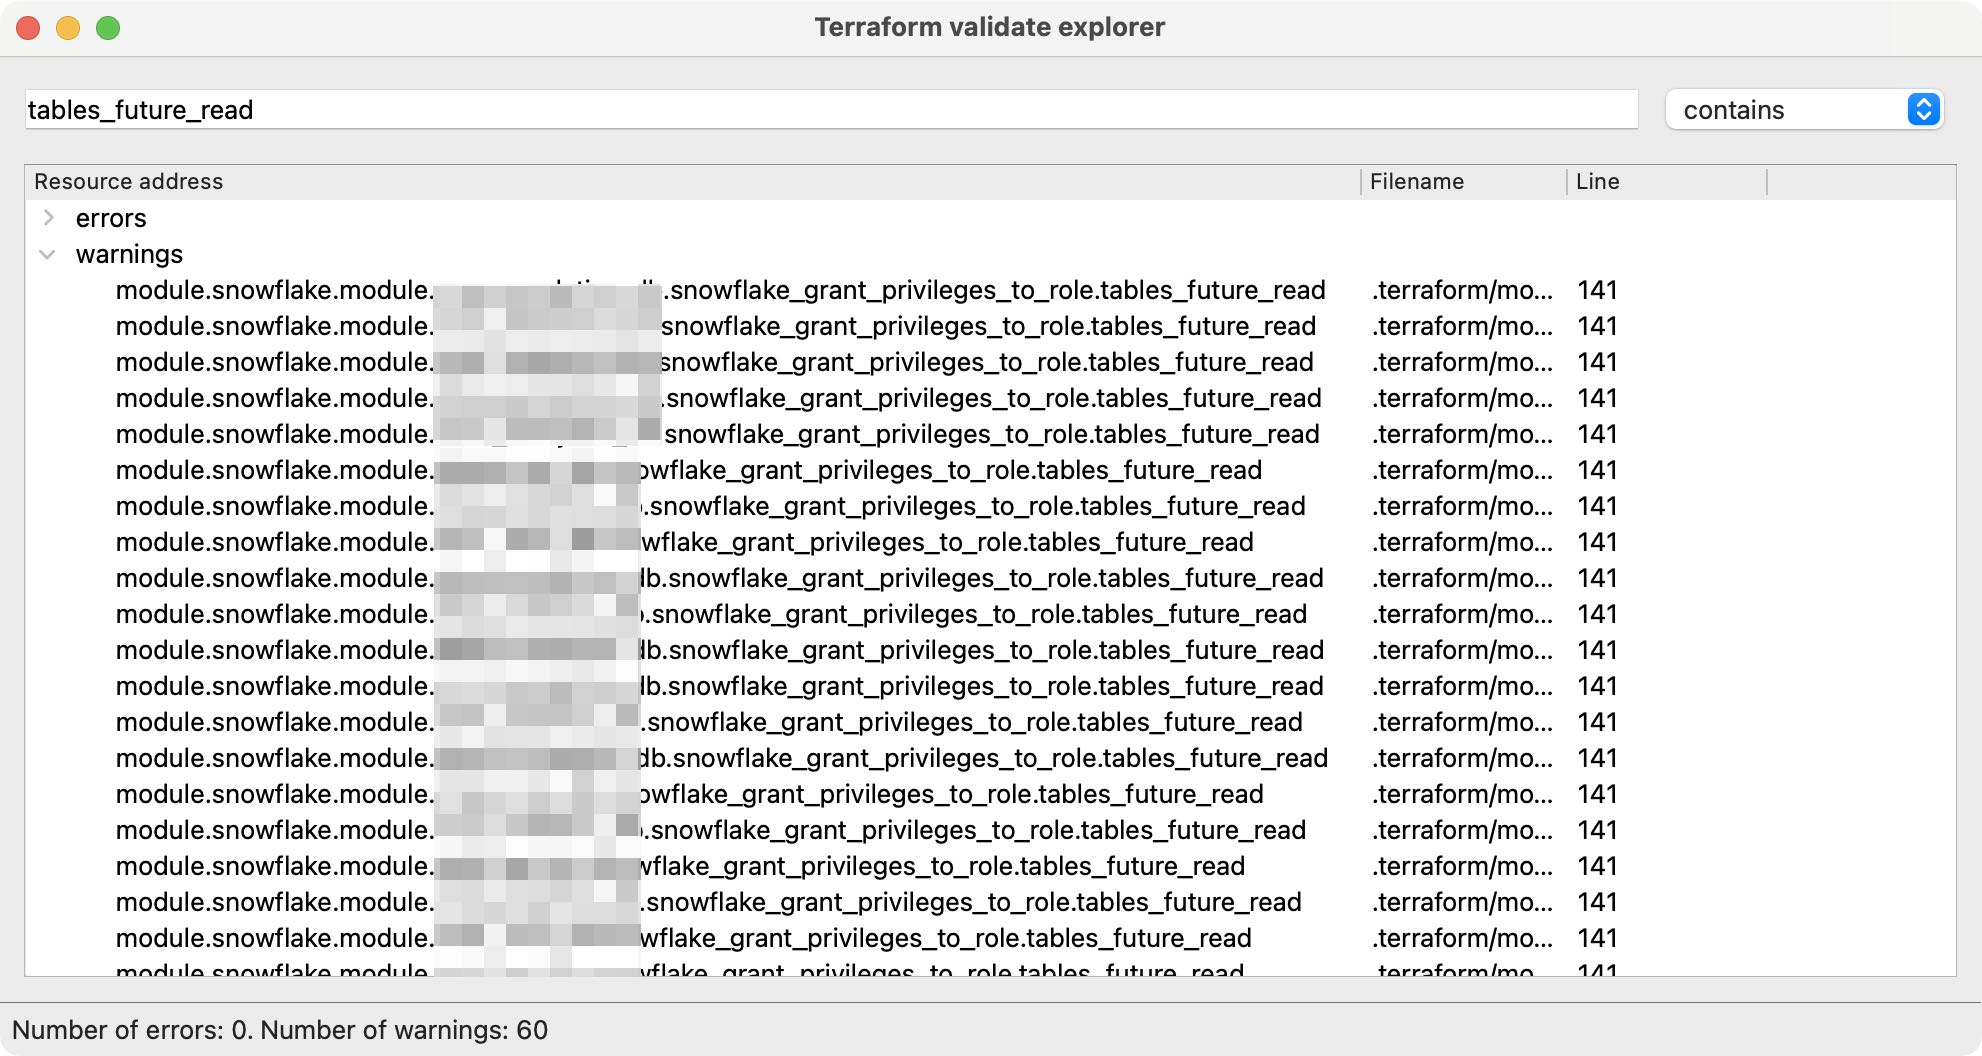
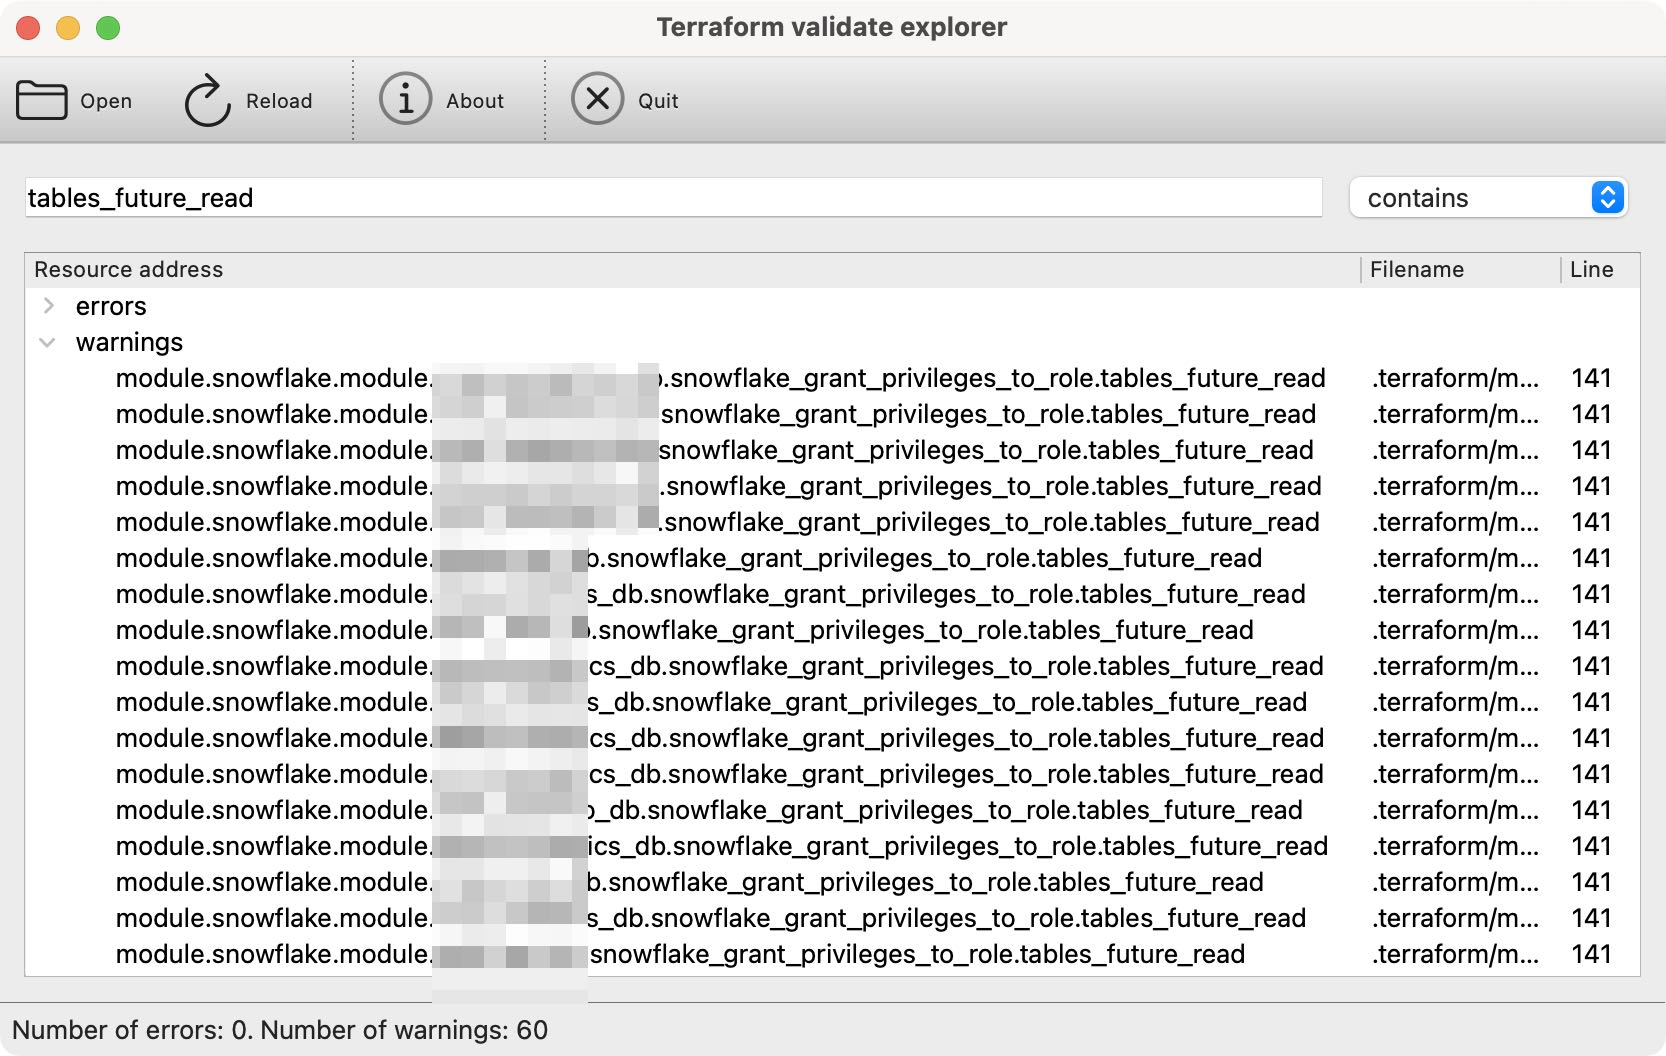
(feat) - adds the 'Reload' functionality; adds a toolbar
the 'Reload' functionality reads the same validation file again. This is useful in cases where `terraform validate -json > OUTPUT_FILE` is ran multiple times, while keeping `terraform-validate-explorer` open.

diff --git a/ui/ui.py b/ui/ui.py
@@ -18,8 +18,8 @@ from PySide6.QtGui import (QAction, QBrush, QColor, QConicalGradient,
     QTransform)
 from PySide6.QtWidgets import (QApplication, QComboBox, QHBoxLayout, QHeaderView,
     QLineEdit, QMainWindow, QMenu, QMenuBar,
-    QSizePolicy, QStatusBar, QTreeWidget, QTreeWidgetItem,
-    QVBoxLayout, QWidget)
+    QSizePolicy, QStatusBar, QToolBar, QTreeWidget,
+    QTreeWidgetItem, QVBoxLayout, QWidget)
 
 class Ui_MainWindow(object):
     def setupUi(self, MainWindow):
@@ -27,10 +27,27 @@ class Ui_MainWindow(object):
             MainWindow.setObjectName(u"MainWindow")
         MainWindow.resize(833, 500)
         MainWindow.setMinimumSize(QSize(400, 500))
-        self.actionOpen = QAction(MainWindow)
-        self.actionOpen.setObjectName(u"actionOpen")
-        self.actionAbout = QAction(MainWindow)
-        self.actionAbout.setObjectName(u"actionAbout")
+        self.action_open = QAction(MainWindow)
+        self.action_open.setObjectName(u"action_open")
+        icon = QIcon(QIcon.fromTheme(u"document-open"))
+        self.action_open.setIcon(icon)
+        self.action_open.setIconVisibleInMenu(True)
+        self.action_about = QAction(MainWindow)
+        self.action_about.setObjectName(u"action_about")
+        icon1 = QIcon(QIcon.fromTheme(u"help-about"))
+        self.action_about.setIcon(icon1)
+        self.action_about.setIconVisibleInMenu(True)
+        self.action_reload = QAction(MainWindow)
+        self.action_reload.setObjectName(u"action_reload")
+        icon2 = QIcon(QIcon.fromTheme(u"view-refresh"))
+        self.action_reload.setIcon(icon2)
+        self.action_reload.setIconVisibleInMenu(True)
+        self.action_quit = QAction(MainWindow)
+        self.action_quit.setObjectName(u"action_quit")
+        self.action_quit.setCheckable(False)
+        icon3 = QIcon(QIcon.fromTheme(u"window-close"))
+        self.action_quit.setIcon(icon3)
+        self.action_quit.setIconVisibleInMenu(True)
         self.centralwidget = QWidget(MainWindow)
         self.centralwidget.setObjectName(u"centralwidget")
         self.verticalLayout_2 = QVBoxLayout(self.centralwidget)
@@ -75,11 +92,26 @@ class Ui_MainWindow(object):
         self.statusbar = QStatusBar(MainWindow)
         self.statusbar.setObjectName(u"statusbar")
         MainWindow.setStatusBar(self.statusbar)
+        self.toolbar = QToolBar(MainWindow)
+        self.toolbar.setObjectName(u"toolbar")
+        self.toolbar.setMovable(False)
+        self.toolbar.setToolButtonStyle(Qt.ToolButtonStyle.ToolButtonTextBesideIcon)
+        self.toolbar.setFloatable(False)
+        MainWindow.addToolBar(Qt.ToolBarArea.TopToolBarArea, self.toolbar)
 
         self.menubar.addAction(self.menuFile.menuAction())
-        self.menuFile.addAction(self.actionOpen)
+        self.menuFile.addAction(self.action_open)
+        self.menuFile.addAction(self.action_reload)
         self.menuFile.addSeparator()
-        self.menuFile.addAction(self.actionAbout)
+        self.menuFile.addAction(self.action_about)
+        self.menuFile.addSeparator()
+        self.menuFile.addAction(self.action_quit)
+        self.toolbar.addAction(self.action_open)
+        self.toolbar.addAction(self.action_reload)
+        self.toolbar.addSeparator()
+        self.toolbar.addAction(self.action_about)
+        self.toolbar.addSeparator()
+        self.toolbar.addAction(self.action_quit)
 
         self.retranslateUi(MainWindow)
 
@@ -88,9 +120,15 @@ class Ui_MainWindow(object):
 
     def retranslateUi(self, MainWindow):
         MainWindow.setWindowTitle(QCoreApplication.translate("MainWindow", u"Terraform validate explorer", None))
-        self.actionOpen.setText(QCoreApplication.translate("MainWindow", u"Open", None))
-        self.actionAbout.setText(QCoreApplication.translate("MainWindow", u"About", None))
+        self.action_open.setText(QCoreApplication.translate("MainWindow", u"Open", None))
+        self.action_about.setText(QCoreApplication.translate("MainWindow", u"About", None))
+        self.action_reload.setText(QCoreApplication.translate("MainWindow", u"Reload", None))
+#if QT_CONFIG(tooltip)
+        self.action_reload.setToolTip(QCoreApplication.translate("MainWindow", u"Reload the contents of the currently opened file.", None))
+#endif // QT_CONFIG(tooltip)
+        self.action_quit.setText(QCoreApplication.translate("MainWindow", u"Quit", None))
         self.line_filter.setPlaceholderText(QCoreApplication.translate("MainWindow", u"Enter resource name or address", None))
         self.menuFile.setTitle(QCoreApplication.translate("MainWindow", u"File", None))
+        self.toolbar.setWindowTitle(QCoreApplication.translate("MainWindow", u"toolBar", None))
     # retranslateUi
 

diff --git a/main.py b/main.py
@@ -27,7 +27,7 @@ from ui.about import Ui_dialog_about
 
 SEARCH_TYPES = ["contains", "does not contain", "regex"]
 
-__version__ = "0.1.0"
+__version__ = "0.2.0"
 
 
 class TerraformValidateExplorer(QMainWindow):
@@ -54,17 +54,27 @@ class TerraformValidateExplorer(QMainWindow):
         )
 
     def _setup_signals(self):
-        self.ui.actionOpen.triggered.connect(self.load_initial_data)
+        self.ui.action_open.triggered.connect(self.load_initial_data)
         self.ui.line_filter.textChanged.connect(self.filter_items)
         self.ui.combo_search_type.currentIndexChanged.connect(self.filter_items)
-        self.ui.actionAbout.triggered.connect(self._show_about)
+        self.ui.action_about.triggered.connect(self._show_about)
+        self.ui.action_reload.triggered.connect(self.load_initial_data)
+        self.ui.action_quit.triggered.connect(self.close)
+
+        if not self.file_contents:
+            self.ui.action_reload.setDisabled(True)
 
     def _show_about(self):
         dlg = AboutDialog()
         dlg.exec()
 
     def get_file_contents(self):
-        file_path = self.open_file()
+        # if a file path is not set, open the file; if it is set, just reload
+        # the file contents by reading from the same file path
+        if len(self.file_path) == 0:
+            file_path = self.open_file()
+        else:
+            file_path = self.file_path
 
         if file_path:
             with open(file_path, "r") as file:
@@ -72,7 +82,9 @@ class TerraformValidateExplorer(QMainWindow):
 
             if not parser.validation_file_valid(self.file_contents):
                 QMessageBox.critical(
-                    self, "Error", "This Terraform validate output file is invalid."
+                    self,
+                    "Error",
+                    "This 'terraform validate -json' output file is invalid.",
                 )
 
             else:
@@ -146,9 +158,6 @@ class TerraformValidateExplorer(QMainWindow):
             self.original_items = parser.get_initial_data(self.file_contents)
             items = TerraformValidateExplorer.contents_to_dict(self.original_items)
 
-            # save for future use to avoid reading the file again
-            # self.original_items = data
-
             self.fill_tree(items)
             num_errors = len(self.original_items.get("errors"))
             num_warnings = len(self.original_items.get("warnings"))
@@ -174,6 +183,9 @@ class TerraformValidateExplorer(QMainWindow):
             str(pathlib.Path.home()),
             "JSON (*.json)",
         )
+
+        self.file_path = file_path
+        self.ui.action_reload.setEnabled(True)
 
         return file_path
 
